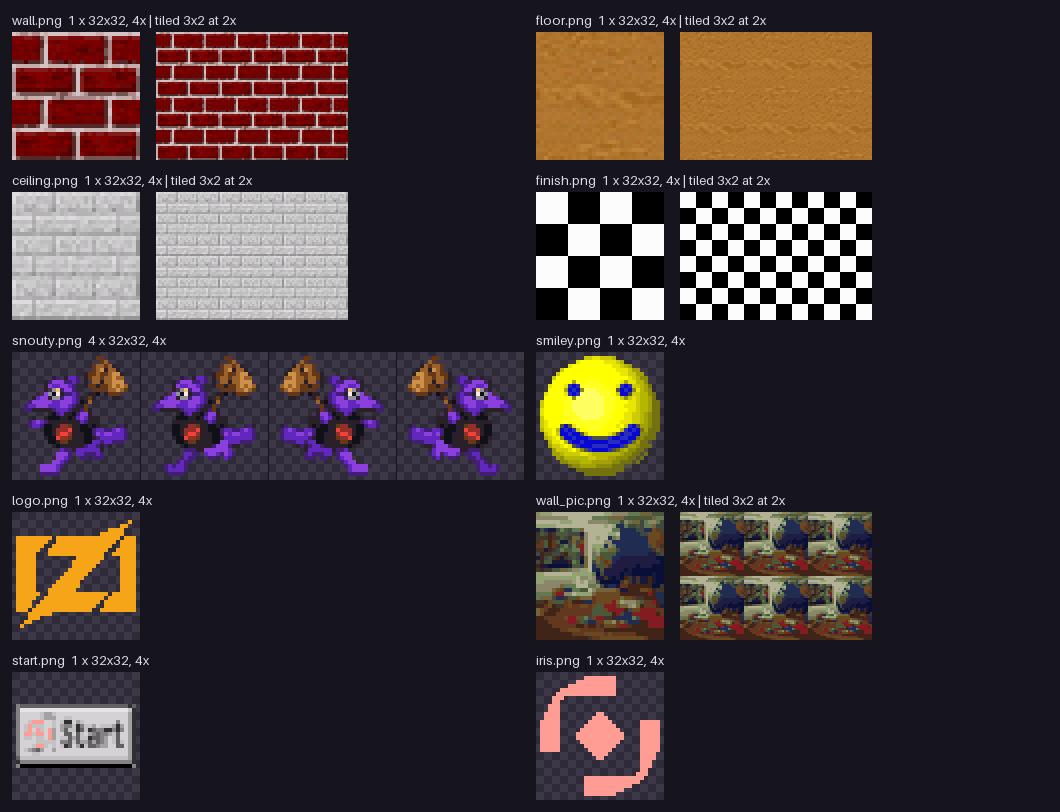
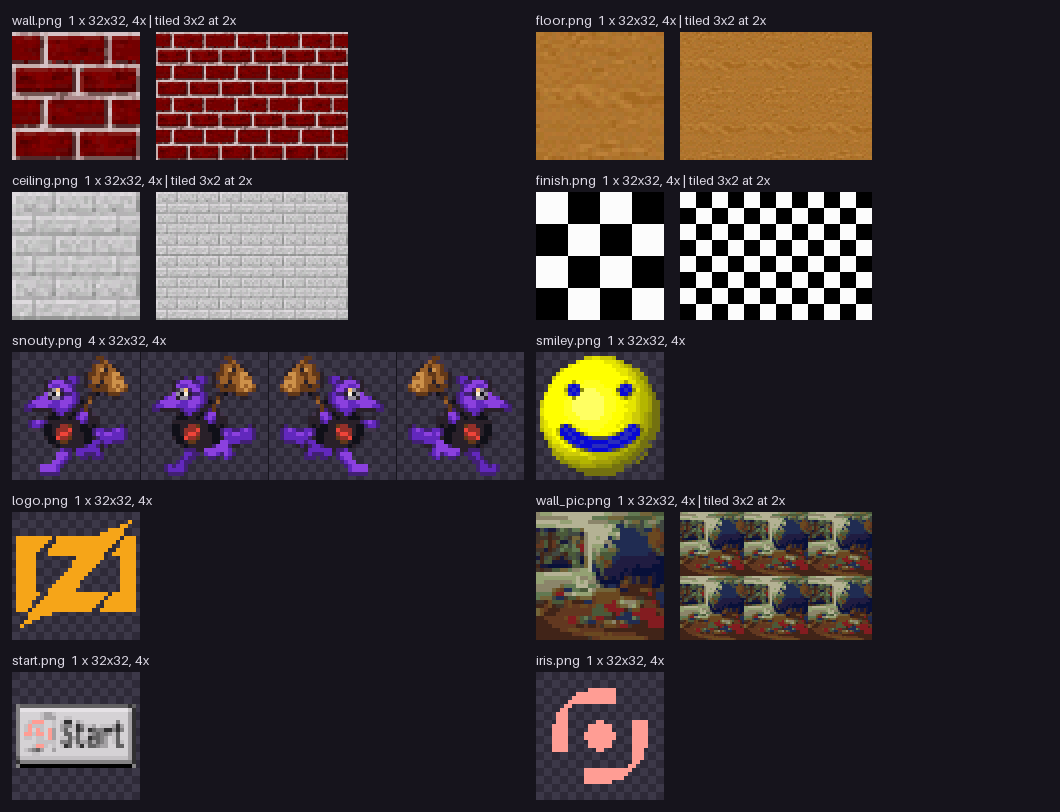
snouty-maze: undistorted Iris mark in the name strip
The 32 -> 24 nearest-neighbour blit dropped every fourth row and column,
so the arcs varied between 4 and 5 px and the diamond came out lopsided.
The art pack now renders the mark at 24 px centred in the 32 cell
(snouty-art 2d9a958) and overlay.zig copies texels 4..27 1:1. The
placeholder iris.png is the same 24 px scaling of the procedural mark.
Docs: SPEC row, PLAN "M4 fix" note, the snouty-art path in the asset
commands (../../../ from carts/snouty-maze), regenerated contact sheet
and preview_m4.gif.

check_golden 9/9, check_cycle 9/9, zig build test and check-float PASS.

Changed region(s): [[0.4981, 0.8313, 0.6226, 0.9852]]

diff --git a/carts/snouty-maze/tools/prepare_assets.py b/carts/snouty-maze/tools/prepare_assets.py
@@ -336,25 +336,31 @@ def draw_smiley() -> np.ndarray:
 
 # --------------------------------------------------------------------------
 # logo.png: an iris-like mark: a diamond frame around a round iris with a
-# pupil and a highlight.
+# pupil and a highlight. iris.png is the same drawing at 24 px, centred in
+# the 32 cell, because the overhead name strip blits texels 4..27 1:1.
 # --------------------------------------------------------------------------
-def draw_logo() -> np.ndarray:
+def draw_logo(scale: float = 1.0) -> np.ndarray:
     s = MANIFEST["logo.png"]
     a = new_sheet(s)
     yy, xx = grid(32, 32)
-    d = np.abs(yy - 16) + np.abs(xx - 16)
+    d = (np.abs(yy - 16) + np.abs(xx - 16)) / scale
     diamond = d <= 14.6
     a[diamond] = OUTLINE
     a[(d <= 13.4)] = PURPLE1
     a[(d <= 12.4) & (d > 10.0)] = PURPLE3
     a[(d <= 10.0)] = g(1, 1, 3)
-    r = np.hypot(yy - 16, xx - 16)
+    r = np.hypot(yy - 16, xx - 16) / scale
     a[r <= 8.2] = PURPLE2
     a[(r <= 8.2) & (r > 7.0)] = PURPLE4
     a[r <= 5.6] = g(4, 3, 7)
     a[r <= 3.2] = BLACK
-    a[ellipse(32, 32, 13.5, 13.5, 1.3, 1.3)] = WHITE
+    hl = 16 - 2.5 * scale
+    a[ellipse(32, 32, hl, hl, 1.3 * scale, 1.3 * scale)] = WHITE
     return a
+
+
+def draw_iris() -> np.ndarray:
+    return draw_logo(24 / 32)
 
 
 # --------------------------------------------------------------------------
@@ -397,7 +403,7 @@ DRAW = {
     "logo.png": draw_logo,
     "wall_pic.png": draw_wall_pic,
     "start.png": draw_start,
-    "iris.png": draw_logo,
+    "iris.png": draw_iris,
 }
 
 
@@ -628,7 +634,7 @@ def run_w95(src: Path, art: Path | None) -> int:
         "finish.png": draw_finish(),
     }
     made["snouty.png"] = draw_snouty()
-    made["iris.png"] = draw_logo()
+    made["iris.png"] = draw_iris()
     if art is not None:
         for name in ART_SHEETS:
             made[name] = np.array(Image.open(art / name).convert("RGB"))

diff --git a/carts/snouty-maze/PLAN.md b/carts/snouty-maze/PLAN.md
@@ -994,7 +994,8 @@ teleport from MANUAL returns to MANUAL with the idle timer restarted.
 - `scene.zig` (one hunk + the `draw_actors` call): while carving no finish
   tile and no actors; the carve head is a flat Iris-pink tile
   (`textures.carve_head_color`, one extra quad).
-- `overlay.zig`: Iris mark blitted 32 -> 24 nearest-neighbour at y =
+- `overlay.zig`: Iris mark blitted 32 -> 24 nearest-neighbour (replaced by
+  a 1:1 blit of a 24 px mark after M4, see "M4 fix" below) at y =
   104..127 with the text's 1 px black drop shadow (clipped at the screen
   edge), then the two lines, each centred in a 96 px text block; icon (24)
   + gap (4) + text (96) centred, x = 18. Checked on OVERHEAD frames and on
@@ -1134,3 +1135,16 @@ views from above are the limit, so the default stays 12x12 and
 `-Dmaze_size=16` is the switch. Fix folded in: `1910d2f` had put three
 wasm debug exports (`debug_led_max`, `debug_place`, `debug_fade_level`)
 in the badge branch; C4 moved them back.
+
+## M4 fix: Iris mark in the name strip (2026-09-29)
+
+Adrian: the Iris mark beside the name looked distorted. Cause: the 32 -> 24
+nearest-neighbour blit dropped every fourth row and column, so the arcs
+varied between 4 and 5 px and the diamond came out lopsided. Fix: the art
+pack renders the mark at 24 px centred in the 32 cell (snouty-art
+`tools/build_maze.py`, `IRIS_BOX`; the sheet contract is unchanged) and
+`overlay.zig` copies texels 4..27 1:1. The placeholder `iris.png` is the
+same 24 px scaling of the procedural mark. No golden shows the strip;
+`check_golden` 9/9, `check_cycle` 9/9, `zig build test`, `check-float`
+PASS; `docs/preview_m4.gif` and `docs/w95_assets.png` regenerated.
+

diff --git a/carts/snouty-maze/SPEC.md b/carts/snouty-maze/SPEC.md
@@ -341,7 +341,7 @@ below procedurally at the exact size so code never waits on art, as in
 | `snouty.png`      | 32x32 | 4      | yes         | blob with an "S", left x2 / right x2, legs alternate |
 | `smiley.png`      | 32x32 | 1      | yes         | yellow disc, two eyes, a smile                    |
 | `logo.png`        | 32x32 | 1      | yes         | iris-like mark (real: Zig mark via `--art`)       |
-| `iris.png`        | 32x32 | 1      | yes         | same drawing (real: Iris mark via `--art`)        |
+| `iris.png`        | 32x32 | 1      | yes         | same drawing at 24 px, centred (real: Iris mark via `--art`); the name strip blits texels 4..27 1:1 |
 
 Textures are unpacked to `u8` 32x32 grids at `start()` (1 KB each). Wall
 tops and the sphere are flat colours in code and need no sheet.

diff --git a/carts/snouty-maze/CLAUDE.md b/carts/snouty-maze/CLAUDE.md
@@ -15,7 +15,7 @@ their CLAUDE.md files have the long explanations of the simulator quirks.
   for `zig build test`.
 - `assets/gen/` — build-input PNGs (committed), produced by
   `tools/prepare_assets.py --from-w95 assets/src/w95 --art
-  ../../snouty-art/out/maze` from the original screensaver textures in
+  ../../../snouty-art/out/maze` from the original screensaver textures in
   `assets/src/w95/` plus the snouty-art maze pack (Snouty, Zig mark, Iris
   mark, Start button); `--placeholders` draws procedural stand-ins instead.
 - `tools/` — `check_golden.mjs`, `check_cycle.mjs`, `prepare_assets.py`. The

diff --git a/carts/snouty-maze/docs/RUNNING.md b/carts/snouty-maze/docs/RUNNING.md
@@ -363,7 +363,7 @@ python3 ../../tools/make_gif.py out/m3 docs/preview_m3.gif --scale 3 --ms 100
 ### Art
 
 ```sh
-python3 tools/prepare_assets.py --from-w95 assets/src/w95 --art ../../snouty-art/out/maze \
+python3 tools/prepare_assets.py --from-w95 assets/src/w95 --art ../../../snouty-art/out/maze \
   --contact docs/w95_assets.png                 # what assets/gen/ is built from
 python3 tools/prepare_assets.py --placeholders --contact docs/placeholders.png
 python3 tools/prepare_assets.py --check       # validate delivered art in assets/gen/
